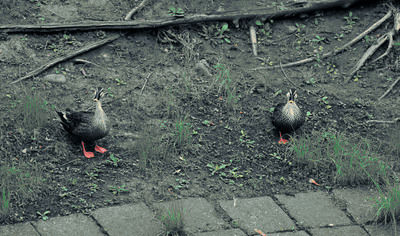
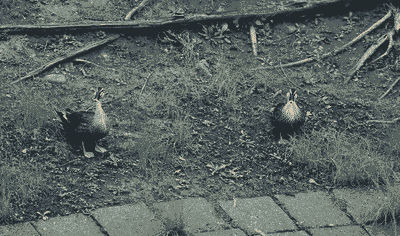
feat: dithering

diff --git a/src/recolor.rs b/src/recolor.rs
@@ -120,16 +120,44 @@ fn palette_labs(colors: &[u32]) -> Vec<Oklab> {
         .collect()
 }
 
-fn nearest(color: Oklab, colors: &[Oklab], lambda: f32) -> Oklab {
-    *colors
-        .iter()
-        .min_by(|a, b| {
-            let distance = |x: &Oklab| {
-                lambda * (color.l - x.l).powi(2) + (color.a - x.a).powi(2) + (color.b - x.b).powi(2)
-            };
-            distance(a).total_cmp(&distance(b))
-        })
-        .expect("palette is not empty")
+fn distance(a: Oklab, b: Oklab, lambda: f32) -> f32 {
+    lambda * (a.l - b.l).powi(2) + (a.a - b.a).powi(2) + (a.b - b.b).powi(2)
+}
+
+fn nearest_two(color: Oklab, colors: &[Oklab], lambda: f32) -> (Oklab, Oklab) {
+    let mut nearest = [(f32::INFINITY, colors[0]); 2];
+    for &candidate in colors {
+        let candidate = (distance(color, candidate, lambda), candidate);
+        if candidate.0 < nearest[0].0 {
+            nearest[1] = nearest[0];
+            nearest[0] = candidate;
+        } else if candidate.0 < nearest[1].0 {
+            nearest[1] = candidate;
+        }
+    }
+    (nearest[0].1, nearest[1].1)
+}
+
+fn dithered(color: Oklab, colors: &[Oklab], lambda: f32, threshold: f32) -> Oklab {
+    let (first, second) = nearest_two(color, colors, lambda);
+    let direction = Oklab::new(second.l - first.l, second.a - first.a, second.b - first.b);
+    let denominator = distance(first, second, lambda);
+    if denominator == 0.0 {
+        return first;
+    }
+    let amount = (lambda * (color.l - first.l) * direction.l
+        + (color.a - first.a) * direction.a
+        + (color.b - first.b) * direction.b)
+        / denominator;
+    if threshold < amount.clamp(0.0, 1.0) {
+        second
+    } else {
+        first
+    }
+}
+
+fn noise(x: usize, y: usize) -> f32 {
+    (52.982_918 * (0.067_110_56 * x as f32 + 0.005_837_15 * y as f32).fract()).fract()
 }
 
 pub fn recolor(image: &mut RgbaImage, colors: &[u32], lambda: f32, mix: f32) {
@@ -137,27 +165,37 @@ pub fn recolor(image: &mut RgbaImage, colors: &[u32], lambda: f32, mix: f32) {
         return;
     }
     let colors = palette_labs(colors);
-    image.as_mut().par_chunks_exact_mut(4).for_each(|pixel| {
-        if pixel[3] == 0 {
-            return;
-        }
-        let original = Oklab::from_color(Srgb::new(
-            pixel[0] as f32 / 255.0,
-            pixel[1] as f32 / 255.0,
-            pixel[2] as f32 / 255.0,
-        ));
-        let selected = nearest(original, &colors, lambda);
-        let remapped = Oklab::new(
-            original.l,
-            original.a + mix * (selected.a - original.a),
-            original.b + mix * (selected.b - original.b),
-        );
-        let rgb: Srgb = Srgb::from_color(remapped);
-        let (r, g, b) = rgb.into_components();
-        pixel[0] = (r.clamp(0.0, 1.0) * 255.0).round() as u8;
-        pixel[1] = (g.clamp(0.0, 1.0) * 255.0).round() as u8;
-        pixel[2] = (b.clamp(0.0, 1.0) * 255.0).round() as u8;
-    });
+    let width = image.width() as usize;
+    image
+        .as_mut()
+        .par_chunks_exact_mut(4)
+        .enumerate()
+        .for_each(|(index, pixel)| {
+            if pixel[3] == 0 {
+                return;
+            }
+            let original = Oklab::from_color(Srgb::new(
+                pixel[0] as f32 / 255.0,
+                pixel[1] as f32 / 255.0,
+                pixel[2] as f32 / 255.0,
+            ));
+            let selected = dithered(
+                original,
+                &colors,
+                lambda,
+                noise(index % width, index / width),
+            );
+            let remapped = Oklab::new(
+                original.l + mix * (selected.l - original.l),
+                original.a + mix * (selected.a - original.a),
+                original.b + mix * (selected.b - original.b),
+            );
+            let rgb: Srgb = Srgb::from_color(remapped);
+            let (r, g, b) = rgb.into_components();
+            pixel[0] = (r.clamp(0.0, 1.0) * 255.0).round() as u8;
+            pixel[1] = (g.clamp(0.0, 1.0) * 255.0).round() as u8;
+            pixel[2] = (b.clamp(0.0, 1.0) * 255.0).round() as u8;
+        });
 }
 
 pub fn encode_image(
@@ -224,8 +262,16 @@ mod tests {
     fn lambda_controls_lightness_weight() {
         let colors = [Oklab::new(0.1, 0.18, -0.08), Oklab::new(0.75, 0.0, 0.0)];
         let source = Oklab::new(0.75, 0.18, -0.08);
-        assert_eq!(nearest(source, &colors, 0.0), colors[0]);
-        assert_eq!(nearest(source, &colors, 1.0), colors[1]);
+        assert_eq!(nearest_two(source, &colors, 0.0).0, colors[0]);
+        assert_eq!(nearest_two(source, &colors, 1.0).0, colors[1]);
+    }
+
+    #[test]
+    fn dithering_selects_both_neighbors() {
+        let colors = [Oklab::new(0.0, 0.0, 0.0), Oklab::new(1.0, 0.0, 0.0)];
+        let source = Oklab::new(0.5, 0.0, 0.0);
+        assert_eq!(dithered(source, &colors, 1.0, 0.25), colors[1]);
+        assert_eq!(dithered(source, &colors, 1.0, 0.75), colors[0]);
     }
 
     #[test]
@@ -256,7 +302,7 @@ mod tests {
     }
 
     #[test]
-    fn recolor_keeps_alpha_and_gradient_lightness() {
+    fn recolor_uses_palette_lightness_and_keeps_alpha() {
         let mut image = RgbaImage::new(256, 1);
         for (x, _, pixel) in image.enumerate_pixels_mut() {
             *pixel = image::Rgba([x as u8, x as u8, x as u8, x as u8]);
@@ -273,7 +319,7 @@ mod tests {
                 .map(|p| [p[0], p[1], p[2]])
                 .collect::<std::collections::HashSet<_>>()
                 .len()
-                > EVERFOREST.neutral.len() + EVERFOREST.accents.len()
+                <= EVERFOREST.neutral.len() + EVERFOREST.accents.len()
         );
         for (x, _, pixel) in image.enumerate_pixels() {
             assert_eq!(pixel[3], x as u8);

diff --git a/README.md b/README.md
@@ -10,30 +10,34 @@ Built-in themes: `everforest-dark-medium`, `catppuccin-mocha`, `tokyo-night`, `g
 
 ## Examples
 
+Derived previews use `--palette-name-only`; their current settings are defined
+in `scripts/regenerate-readme-images.sh` and can be applied with
+`make readme-images` without changing these paths.
+
 <table>
-<tr><th>Original</th><th>Everforest Dark Medium</th><th>Everforest Dark Medium (neutral only)</th></tr>
-<tr><td><img src="examples-400/DSC_1255.JPG" width="400" alt="Original DSC 1255"></td><td><img src="examples-400/dsc-1255-everforest-dark-medium.jpg" width="400" alt="Everforest DSC 1255"></td><td><img src="examples-400/dsc-1255-everforest-dark-medium-neutral.jpg" width="400" alt="Everforest neutral-only DSC 1255"></td></tr>
-<tr><td><img src="examples-400/DSC_1261.JPG" width="400" alt="Original DSC 1261"></td><td><img src="examples-400/dsc-1261-everforest-dark-medium.jpg" width="400" alt="Everforest DSC 1261"></td><td><img src="examples-400/dsc-1261-everforest-dark-medium-neutral.jpg" width="400" alt="Everforest neutral-only DSC 1261"></td></tr>
-<tr><td><img src="examples-400/DSC_1275.JPG" width="400" alt="Original DSC 1275"></td><td><img src="examples-400/dsc-1275-everforest-dark-medium.jpg" width="400" alt="Everforest DSC 1275"></td><td><img src="examples-400/dsc-1275-everforest-dark-medium-neutral.jpg" width="400" alt="Everforest neutral-only DSC 1275"></td></tr>
-<tr><td><img src="examples-400/DSC_1321.JPG" width="400" alt="Original DSC 1321"></td><td><img src="examples-400/dsc-1321-everforest-dark-medium.jpg" width="400" alt="Everforest DSC 1321"></td><td><img src="examples-400/dsc-1321-everforest-dark-medium-neutral.jpg" width="400" alt="Everforest neutral-only DSC 1321"></td></tr>
-<tr><td><img src="examples-400/DSC_1340.JPG" width="400" alt="Original DSC 1340"></td><td><img src="examples-400/dsc-1340-everforest-dark-medium.jpg" width="400" alt="Everforest DSC 1340"></td><td><img src="examples-400/dsc-1340-everforest-dark-medium-neutral.jpg" width="400" alt="Everforest neutral-only DSC 1340"></td></tr>
-<tr><td><img src="examples-400/DSC_1344.JPG" width="400" alt="Original DSC 1344"></td><td><img src="examples-400/dsc-1344-everforest-dark-medium.jpg" width="400" alt="Everforest DSC 1344"></td><td><img src="examples-400/dsc-1344-everforest-dark-medium-neutral.jpg" width="400" alt="Everforest neutral-only DSC 1344"></td></tr>
-<tr><td><img src="examples-400/DSC_1383.JPG" width="400" alt="Original DSC 1383"></td><td><img src="examples-400/dsc-1383-everforest-dark-medium.jpg" width="400" alt="Everforest DSC 1383"></td><td><img src="examples-400/dsc-1383-everforest-dark-medium-neutral.jpg" width="400" alt="Everforest neutral-only DSC 1383"></td></tr>
-<tr><td><img src="examples-400/DSC_1484.JPG" width="400" alt="Original DSC 1484"></td><td><img src="examples-400/dsc-1484-everforest-dark-medium.jpg" width="400" alt="Everforest DSC 1484"></td><td><img src="examples-400/dsc-1484-everforest-dark-medium-neutral.jpg" width="400" alt="Everforest neutral-only DSC 1484"></td></tr>
-<tr><td><img src="examples-400/DSC_1571.JPG" width="400" alt="Original DSC 1571"></td><td><img src="examples-400/dsc-1571-everforest-dark-medium.jpg" width="400" alt="Everforest DSC 1571"></td><td><img src="examples-400/dsc-1571-everforest-dark-medium-neutral.jpg" width="400" alt="Everforest neutral-only DSC 1571"></td></tr>
-<tr><td><img src="examples-400/DSC_1629.JPG" width="400" alt="Original DSC 1629"></td><td><img src="examples-400/dsc-1629-everforest-dark-medium.jpg" width="400" alt="Everforest DSC 1629"></td><td><img src="examples-400/dsc-1629-everforest-dark-medium-neutral.jpg" width="400" alt="Everforest neutral-only DSC 1629"></td></tr>
-<tr><td><img src="examples-400/DSC_1657.JPG" width="400" alt="Original DSC 1657"></td><td><img src="examples-400/dsc-1657-everforest-dark-medium.jpg" width="400" alt="Everforest DSC 1657"></td><td><img src="examples-400/dsc-1657-everforest-dark-medium-neutral.jpg" width="400" alt="Everforest neutral-only DSC 1657"></td></tr>
-<tr><td><img src="examples-400/DSC_1719.JPG" width="400" alt="Original DSC 1719"></td><td><img src="examples-400/dsc-1719-everforest-dark-medium.jpg" width="400" alt="Everforest DSC 1719"></td><td><img src="examples-400/dsc-1719-everforest-dark-medium-neutral.jpg" width="400" alt="Everforest neutral-only DSC 1719"></td></tr>
-<tr><td><img src="examples-400/DSC_1806.JPG" width="400" alt="Original DSC 1806"></td><td><img src="examples-400/dsc-1806-everforest-dark-medium.jpg" width="400" alt="Everforest DSC 1806"></td><td><img src="examples-400/dsc-1806-everforest-dark-medium-neutral.jpg" width="400" alt="Everforest neutral-only DSC 1806"></td></tr>
-<tr><td><img src="examples-400/DSC_1812.JPG" width="400" alt="Original DSC 1812"></td><td><img src="examples-400/dsc-1812-everforest-dark-medium.jpg" width="400" alt="Everforest DSC 1812"></td><td><img src="examples-400/dsc-1812-everforest-dark-medium-neutral.jpg" width="400" alt="Everforest neutral-only DSC 1812"></td></tr>
-<tr><td><img src="examples-400/DSC_1915.JPG" width="400" alt="Original DSC 1915"></td><td><img src="examples-400/dsc-1915-everforest-dark-medium.jpg" width="400" alt="Everforest DSC 1915"></td><td><img src="examples-400/dsc-1915-everforest-dark-medium-neutral.jpg" width="400" alt="Everforest neutral-only DSC 1915"></td></tr>
-<tr><td><img src="examples-400/DSC_2080.JPG" width="400" alt="Original DSC 2080"></td><td><img src="examples-400/dsc-2080-everforest-dark-medium.jpg" width="400" alt="Everforest DSC 2080"></td><td><img src="examples-400/dsc-2080-everforest-dark-medium-neutral.jpg" width="400" alt="Everforest neutral-only DSC 2080"></td></tr>
-<tr><td><img src="examples-400/DSC_2311.JPG" width="400" alt="Original DSC 2311"></td><td><img src="examples-400/dsc-2311-everforest-dark-medium.jpg" width="400" alt="Everforest DSC 2311"></td><td><img src="examples-400/dsc-2311-everforest-dark-medium-neutral.jpg" width="400" alt="Everforest neutral-only DSC 2311"></td></tr>
-<tr><td><img src="examples-400/DSC_2316.JPG" width="400" alt="Original DSC 2316"></td><td><img src="examples-400/dsc-2316-everforest-dark-medium.jpg" width="400" alt="Everforest DSC 2316"></td><td><img src="examples-400/dsc-2316-everforest-dark-medium-neutral.jpg" width="400" alt="Everforest neutral-only DSC 2316"></td></tr>
-<tr><td><img src="examples-400/DSC_2357.JPG" width="400" alt="Original DSC 2357"></td><td><img src="examples-400/dsc-2357-everforest-dark-medium.jpg" width="400" alt="Everforest DSC 2357"></td><td><img src="examples-400/dsc-2357-everforest-dark-medium-neutral.jpg" width="400" alt="Everforest neutral-only DSC 2357"></td></tr>
+<tr><th>Original</th><th>Everforest Dark Medium</th></tr>
+<tr><td><img src="examples-400/DSC_1255.JPG" width="400" alt="Original DSC 1255"></td><td><img src="examples-400/dsc-1255-everforest-dark-medium.jpg" width="400" alt="Everforest DSC 1255"></td></tr>
+<tr><td><img src="examples-400/DSC_1261.JPG" width="400" alt="Original DSC 1261"></td><td><img src="examples-400/dsc-1261-everforest-dark-medium.jpg" width="400" alt="Everforest DSC 1261"></td></tr>
+<tr><td><img src="examples-400/DSC_1275.JPG" width="400" alt="Original DSC 1275"></td><td><img src="examples-400/dsc-1275-everforest-dark-medium.jpg" width="400" alt="Everforest DSC 1275"></td></tr>
+<tr><td><img src="examples-400/DSC_1321.JPG" width="400" alt="Original DSC 1321"></td><td><img src="examples-400/dsc-1321-everforest-dark-medium.jpg" width="400" alt="Everforest DSC 1321"></td></tr>
+<tr><td><img src="examples-400/DSC_1340.JPG" width="400" alt="Original DSC 1340"></td><td><img src="examples-400/dsc-1340-everforest-dark-medium.jpg" width="400" alt="Everforest DSC 1340"></td></tr>
+<tr><td><img src="examples-400/DSC_1344.JPG" width="400" alt="Original DSC 1344"></td><td><img src="examples-400/dsc-1344-everforest-dark-medium.jpg" width="400" alt="Everforest DSC 1344"></td></tr>
+<tr><td><img src="examples-400/DSC_1383.JPG" width="400" alt="Original DSC 1383"></td><td><img src="examples-400/dsc-1383-everforest-dark-medium.jpg" width="400" alt="Everforest DSC 1383"></td></tr>
+<tr><td><img src="examples-400/DSC_1484.JPG" width="400" alt="Original DSC 1484"></td><td><img src="examples-400/dsc-1484-everforest-dark-medium.jpg" width="400" alt="Everforest DSC 1484"></td></tr>
+<tr><td><img src="examples-400/DSC_1571.JPG" width="400" alt="Original DSC 1571"></td><td><img src="examples-400/dsc-1571-everforest-dark-medium.jpg" width="400" alt="Everforest DSC 1571"></td></tr>
+<tr><td><img src="examples-400/DSC_1629.JPG" width="400" alt="Original DSC 1629"></td><td><img src="examples-400/dsc-1629-everforest-dark-medium.jpg" width="400" alt="Everforest DSC 1629"></td></tr>
+<tr><td><img src="examples-400/DSC_1657.JPG" width="400" alt="Original DSC 1657"></td><td><img src="examples-400/dsc-1657-everforest-dark-medium.jpg" width="400" alt="Everforest DSC 1657"></td></tr>
+<tr><td><img src="examples-400/DSC_1719.JPG" width="400" alt="Original DSC 1719"></td><td><img src="examples-400/dsc-1719-everforest-dark-medium.jpg" width="400" alt="Everforest DSC 1719"></td></tr>
+<tr><td><img src="examples-400/DSC_1806.JPG" width="400" alt="Original DSC 1806"></td><td><img src="examples-400/dsc-1806-everforest-dark-medium.jpg" width="400" alt="Everforest DSC 1806"></td></tr>
+<tr><td><img src="examples-400/DSC_1812.JPG" width="400" alt="Original DSC 1812"></td><td><img src="examples-400/dsc-1812-everforest-dark-medium.jpg" width="400" alt="Everforest DSC 1812"></td></tr>
+<tr><td><img src="examples-400/DSC_1915.JPG" width="400" alt="Original DSC 1915"></td><td><img src="examples-400/dsc-1915-everforest-dark-medium.jpg" width="400" alt="Everforest DSC 1915"></td></tr>
+<tr><td><img src="examples-400/DSC_2080.JPG" width="400" alt="Original DSC 2080"></td><td><img src="examples-400/dsc-2080-everforest-dark-medium.jpg" width="400" alt="Everforest DSC 2080"></td></tr>
+<tr><td><img src="examples-400/DSC_2311.JPG" width="400" alt="Original DSC 2311"></td><td><img src="examples-400/dsc-2311-everforest-dark-medium.jpg" width="400" alt="Everforest DSC 2311"></td></tr>
+<tr><td><img src="examples-400/DSC_2316.JPG" width="400" alt="Original DSC 2316"></td><td><img src="examples-400/dsc-2316-everforest-dark-medium.jpg" width="400" alt="Everforest DSC 2316"></td></tr>
+<tr><td><img src="examples-400/DSC_2357.JPG" width="400" alt="Original DSC 2357"></td><td><img src="examples-400/dsc-2357-everforest-dark-medium.jpg" width="400" alt="Everforest DSC 2357"></td></tr>
 </table>
 
-### Built-in palette comparison (`--lambda 0.25`)
+### Built-in palette comparison
 
 <table>
 <tr><th>Original</th><th>Everforest Dark Medium</th></tr>
@@ -64,6 +68,7 @@ paletteer [OPTIONS] <--theme <THEME>|--theme-file <FILE>> <INPUT>...
 | `-t`, `--theme <THEME>` | No default; required unless `--theme-file` is used | Selects one of the built-in color palettes. | Use a bundled palette without maintaining a separate file. |
 | `--theme-file <FILE>` | No default; required unless `--theme` is used | Loads a custom TOML palette. Cannot be combined with `--theme`. | Recolor with your own base and accent colors. |
 | `-n`, `--normalize-name` | Optional; off | Lowercases the generated output stem and restricts it to `a-z`, `0-9`, and `-`. | Produce predictable, shell-friendly filenames from names containing spaces, punctuation, or uppercase characters. |
+| `--palette-name-only` | Optional; off | Omits `neutral`, `lambda`, and `mix` settings from the output filename, leaving only the palette suffix. | Keep filenames short when settings are tracked elsewhere. Different settings then resolve to the same output path. |
 | `-f`, `--format <FORMAT>` | Optional; `png` | Selects `png`, `webp`, or `jpg` output. PNG is lossless; JPEG discards alpha. | Choose lossless output, smaller WebP files, or broadly compatible JPEG files. |
 | `-q`, `--quality <1-100>` | Optional; `80` for WebP/JPEG | Sets lossy encoding quality. Using it with PNG is an error. | Trade output size for visual quality when writing WebP or JPEG. |
 | `--neutral-only` | Optional; off | Excludes accent colors and adds `-neutral` to the output filename. | Produce a deliberately subdued, near-monochrome result. |
